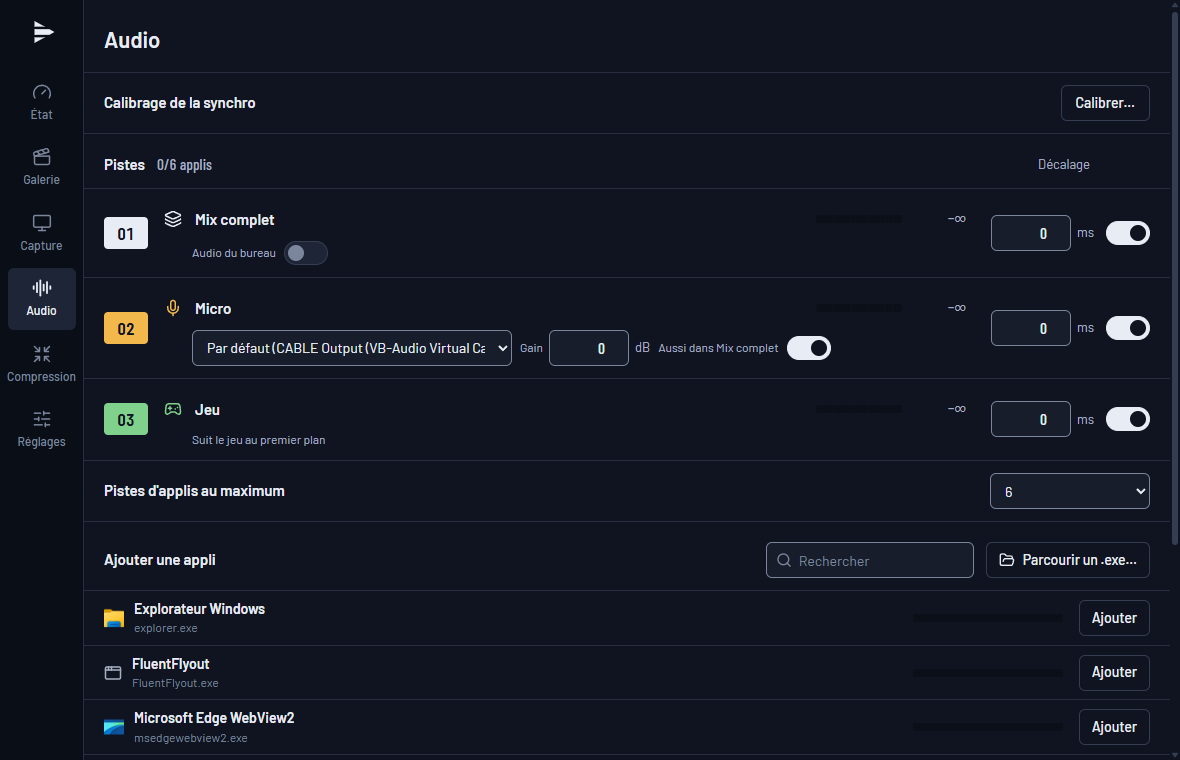
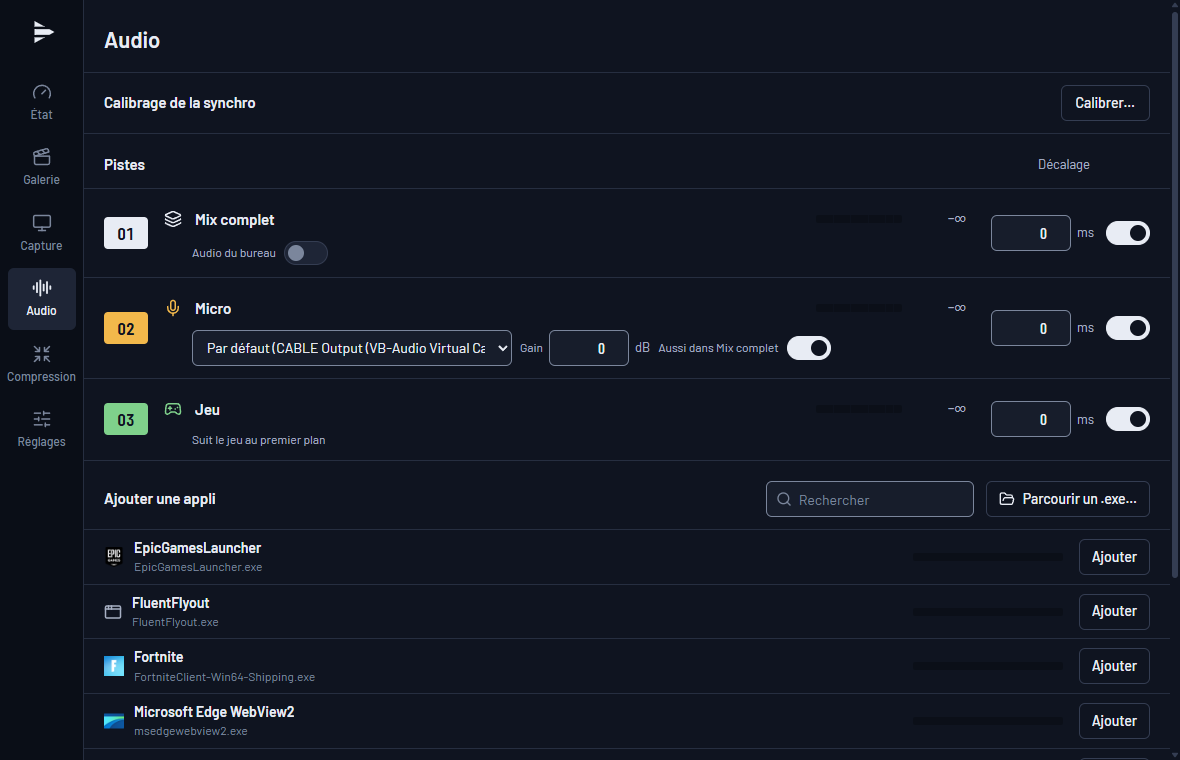
chore(repo): prepare release v1.3.0
Version 1.3.0, changelog, user notes, README screenshots with the new Replay & quality page.

diff --git a/docs/release-notes/1.3.0.md b/docs/release-notes/1.3.0.md
@@ -1,0 +1,19 @@
+## Français
+
+- **Qualité de l'enregistrement** : l'enregistrement peut avoir son propre codec, sa qualité, ses images par seconde et sa résolution (Réglages → Replay & qualité). Le replay continue pendant l'enregistrement et reste sauvegardable.
+- **Taille des clips** : Replay & qualité affiche la taille d'un clip, les Mo par minute, et les Mo par heure d'enregistrement, pendant que tu règles.
+- **Pistes d'applis sans maximum** ; au-delà de 12, la page Audio dit ce qu'elles coûtent.
+- Le résumé de la qualité sur État ouvre Replay & qualité ; un son marque le début et la fin d'un enregistrement.
+- Corrigé : certains réglages ne s'affichaient qu'après une relance de PalaClips.
+
+Journal complet : https://github.com/Palawizard/PalaClips/blob/v1.3.0/CHANGELOG.md
+
+## English
+
+- **Recording quality**: recordings can have their own codec, quality, frame rate and resolution (Settings → Replay & quality). The replay keeps running during a recording and can still be saved.
+- **Clip size**: Replay & quality shows the size of a clip, the MB per minute, and the MB per hour of recording, while you adjust the settings.
+- **No more maximum of app tracks**; past 12, the Audio page says what they cost.
+- The quality summary on Status opens Replay & quality; a sound marks the start and end of a recording.
+- Fixed: some settings only showed after restarting PalaClips.
+
+Full changelog (in French): https://github.com/Palawizard/PalaClips/blob/v1.3.0/CHANGELOG.md

diff --git a/README.fr.md b/README.fr.md
@@ -84,6 +84,10 @@ fonctionne avec les anti-triches comme Easy Anti-Cheat.
 |---|---|
 | ![La page Compression : taille cible, codec, file d'attente avec le plan de chaque clip](docs/screenshots/fr/compress.png) | ![Premier lancement, question de la durée du replay](docs/screenshots/fr/first-launch.png) |
 
+| Replay & qualité |
+|---|
+| ![Replay & qualité : taille d'un clip et Mo par minute, puis les réglages du replay, de l'enregistrement et communs](docs/screenshots/fr/replay-quality.png) |
+
 ## Configuration requise
 
 - Windows 11. Windows 10 n'est pas pris en charge : la capture du son par appli demande le

diff --git a/README.md b/README.md
@@ -82,6 +82,10 @@ Anti-Cheat.
 |---|---|
 | ![The Compress page: target size, codec, queue with each clip's plan](docs/screenshots/en/compress.png) | ![First launch, replay length question](docs/screenshots/en/first-launch.png) |
 
+| Replay & quality |
+|---|
+| ![Replay & quality: clip size and MB per minute, then the replay, recording and shared settings](docs/screenshots/en/replay-quality.png) |
+
 ## Requirements
 
 - Windows 11. Windows 10 isn't supported: per-app audio capture needs build 20348 or later.

diff --git a/CHANGELOG.md b/CHANGELOG.md
@@ -5,6 +5,8 @@ Format : [Keep a Changelog](https://keepachangelog.com/fr/1.1.0/), versions
 
 ## [Non publié]
 
+## [1.3.0] - 2026-10-26
+
 ### Ajouté
 - Qualité propre de l'enregistrement (REC-07, ADR-040) : dans Réglages → Replay & qualité,
   l'enregistrement suit le replay ou prend son codec, sa qualité, ses images par seconde et sa
